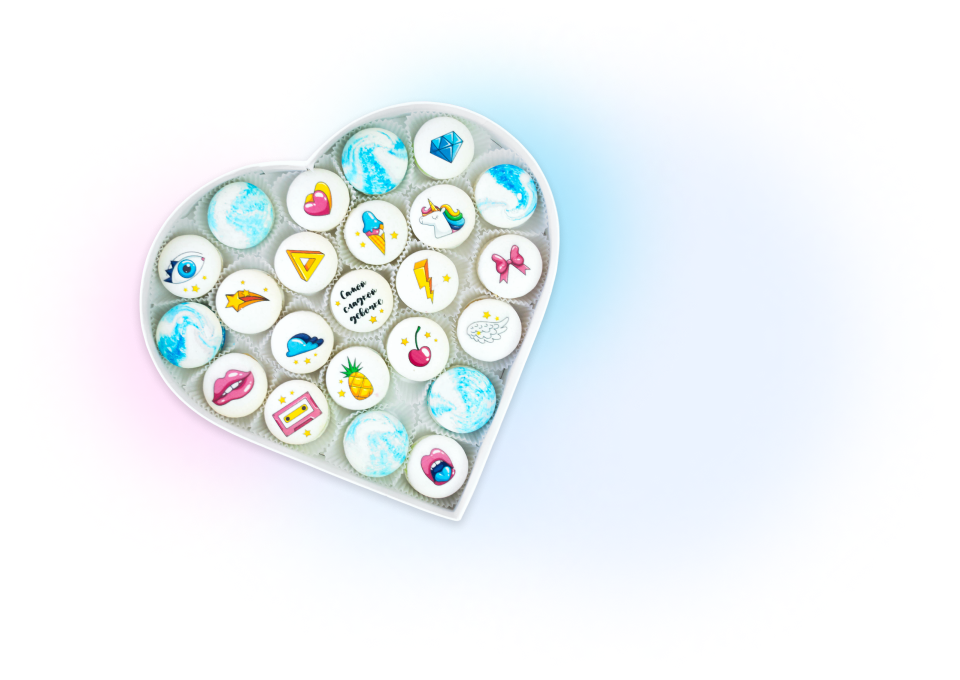
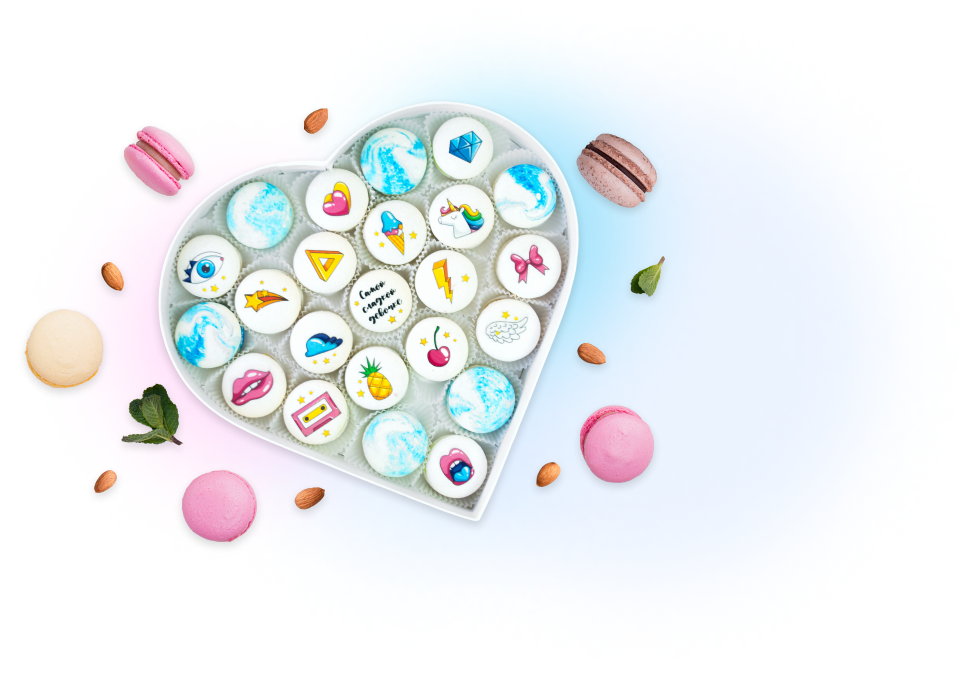
feat: add since section in main page

diff --git a/src/app/page.tsx b/src/app/page.tsx
@@ -1,21 +1,21 @@
-// import SinceSection from './components/MainPage/SinceSection';
-// import Proposals from './components/MainPage/Proposals';
-// import Shares from './components/MainPage/Shares';
-// import Holidays from './components/MainPage/Holidays';
-// import PopularSet from './components/MainPage/PopularSet';
-// import MainNews from './components/MainPage/MainNews';
+import SinceSection from './components/MainPage/SinceSection';
+import Proposals from './components/MainPage/Proposals';
+import Shares from './components/MainPage/Shares';
+import Holidays from './components/MainPage/Holidays';
+import PopularSet from './components/MainPage/PopularSet';
+import MainNews from './components/MainPage/MainNews';
 import MainCare from './components/MainPage/MainCare';
 import styles from './page.module.css';
 
 export default function Home() {
   return (
     <main className={styles.page}>
-      {/* <SinceSection /> */}
-      {/* <Proposals /> */}
-      {/* <Shares /> */}
-      {/* <Holidays /> */}
-      {/* <PopularSet /> */}
-      {/* <MainNews /> */}
+      <SinceSection />
+      <Proposals />
+      <Shares />
+      <Holidays />
+      <PopularSet />
+      <MainNews />
       <MainCare />
     </main>
   );

diff --git a/src/app/components/MainPage/SinceSection.tsx b/src/app/components/MainPage/SinceSection.tsx
@@ -1,15 +1,19 @@
+import Image from 'next/image';
 import styles from './sinceSection.module.css';
-
+import heart from '../../../../public/mainHeart.png';
+import ellipse from '../../../../public/mainSinceEllipse.png';
 function SinceSection() {
   return (
     <section className={styles.since}>
-      <div className={styles.bg}></div>
+      <Image src={heart} alt='heart' width={868} height={479} className={styles.heart} />
+      <Image src={ellipse} alt='ellipse' width={868} height={479} className={styles.ellipse} />
       <div className={styles.content}>
         <div className={styles.macaron}>
-          <span>Macaronshop</span>
-          <div>
-            <div className='line'></div>
+          <span className={styles.macaron_text}>Macaronshop</span>
+          <div className={styles.since_date}>
+            <div className={styles.line}></div>
             <span>Since 2013</span>
+            <div className={styles.line}></div>
           </div>
         </div>
         <h1 className={styles.since_title}>Настоящая любовь</h1>

diff --git a/src/app/components/MainPage/sinceSection.module.css b/src/app/components/MainPage/sinceSection.module.css
@@ -1,6 +1,19 @@
 .since {
+  width: 100%;
   height: 475px;
   display: flex;
+  justify-content: end;
+  position: relative;
+}
+.heart {
+  position: absolute;
+  top: 0;
+  left: 0;
+  z-index: 0;
+}
+.ellipse {
+  position: absolute;
+  right: 0;
 }
 .since_title {
   font-weight: 600;
@@ -8,12 +21,15 @@
   line-height: 51.2px;
 }
 .content {
+  width: 570px;
   display: flex;
   flex-direction: column;
   gap: 30px;
   align-items: center;
   justify-content: center;
   text-align: center;
+  z-index: 1;
+  margin-right: 200px;
 }
 .macaron {
   display: flex;
@@ -22,9 +38,16 @@
   justify-content: center;
   text-align: center;
 }
+.macaron_text {
+  text-transform: uppercase;
+}
+.since_date {
+  display: flex;
+  gap: 10px;
+}
 .line {
   /* flex: 1; */
-  height: 1px;
+  height: 2px;
   width: 29px;
   background-color: #000;
   margin: 10px 0;

diff --git a/src/app/components/MainPage/Proposals.tsx b/src/app/components/MainPage/Proposals.tsx
@@ -6,7 +6,7 @@ import corparative from '../../../../public/svg/mainProposalsCorparativeSet.svg'
 import individual from '../../../../public/svg/mainProposalsIndividualSet.svg';
 import optom from '../../../../public/svg/mainProposalsOptomSet.svg';
 import weddings from '../../../../public/svg/mainProposalsWeddingSet.svg';
-import { StaticImageData } from "next/image";
+import { StaticImageData } from 'next/image';
 
 interface CardsProposales {
   id: number;

diff --git a/src/app/components/MainPage/proposals.module.css b/src/app/components/MainPage/proposals.module.css
@@ -3,6 +3,7 @@
   height: 880px;
   padding: 25px;
   display: flex;
+  justify-content: center;
   flex-wrap: wrap;
   gap: 30px;
   /* justify-content: space-between; */
